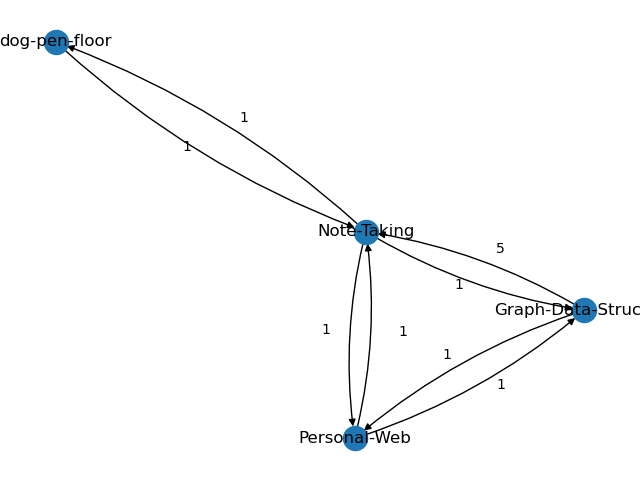
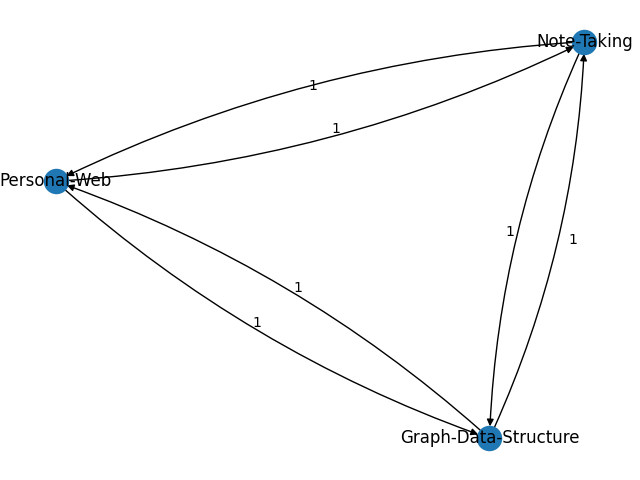
Added all necessary changes to include graph.png view

diff --git a/templates/index.html b/templates/index.html
@@ -46,7 +46,7 @@
       >
         <textarea
           hx-post="/process-markdown"
-          hx-trigger="input"
+          hx-trigger="input, click from:#SecondaryNoteLoader"
           hx-swap="innerHTML"
           hx-target="#view-mode"
           name="markdownText"
@@ -54,13 +54,26 @@
           placeholder="Write your markdown here...."
         ></textarea>
       </div>
-      <button 
-        hx-get="/viz/"
-        >
-        Visualize
-      </button>
+      <!-- <button hx-get="/viz/">Visualize</button> -->
       <!-- This is the area that the html will show up in -->
-      <div class="leading-loose text-sm p-12 col-span-5" id="view-mode"></div>
+      <div class="col-span-5">
+        <div class="flex justify-start align-center border-b-2">
+          <button
+            class="border-r-2 p-1 hover:bg-violet-300 hover:text-neutral-900"
+            id="SecondaryNoteLoader"
+          >
+            Note View
+          </button>
+          <button
+            class="border-r-2 p-1 hover:bg-violet-300 hover:text-neutral-900"
+            hx-get="/viz"
+            hx-target="#view-mode"
+          >
+            Graph View
+          </button>
+        </div>
+        <div class="leading-loose text-sm p-12" id="view-mode"></div>
+      </div>
     </div>
   </body>
 </html>

diff --git a/templates/snippets/textarea.html b/templates/snippets/textarea.html
@@ -1,6 +1,6 @@
 <textarea
   hx-post="/process-markdown"
-  hx-trigger="input"
+  hx-trigger="input, click from:#SecondaryNoteLoader"
   hx-swap="innerHTML"
   hx-target="#view-mode"
   hx-include="[name='noteID']"

diff --git a/templates/snippets/graph.html b/templates/snippets/graph.html
@@ -1,0 +1,7 @@
+<div class="flex h-full justify-center align-center">
+  <img
+    src="{{imgpath}}"
+    alt="This represents the graph of how all the notes are connected"
+    class="w-full"
+  />
+</div>

diff --git a/graph.py b/graph.py
@@ -1,8 +1,10 @@
 from typing import Optional
+import time
 import uuid
 import networkx as nx
 import matplotlib.pyplot as plt
 import math
+
 
 # The same as a node in a graph but called note because we are making a note app
 class Note:
@@ -80,10 +82,12 @@ class WeightedNoteGraph:
             string_value += f"{note} -----> {[str(N) + ', ' + str(self.graph[note][N]) for N in self.graph[note]]}\n"
 
         return string_value
-    
+
     def generate_visualisations(self):
         plt.clf()  # Clear the current matplotlib figure
-        G = nx.MultiDiGraph()  # Create a new directed multigraph each time the method is called
+        G = (
+            nx.MultiDiGraph()
+        )  # Create a new directed multigraph each time the method is called
 
         for note in self.graph:
             G.add_node(note)
@@ -91,20 +95,29 @@ class WeightedNoteGraph:
                 G.add_edge(note, connected_note, weight=weight)
 
         pos = nx.spring_layout(G)
-        nx.draw(G, pos, with_labels=True, connectionstyle='arc3, rad = 0.1')
+        nx.draw(G, pos, with_labels=True, connectionstyle="arc3, rad = 0.1")
 
         # Add edge labels manually
         for u, v, key, d in G.edges(keys=True, data=True):
             x = (pos[u][0] + pos[v][0]) / 2
             y = (pos[u][1] + pos[v][1]) / 2
             angle = math.atan2(pos[v][1] - pos[u][1], pos[v][0] - pos[u][0])
-            label_pos = [x + 0.1 * math.cos(angle + math.pi / 2), y + 0.1 * math.sin(angle + math.pi / 2)]
-            plt.text(label_pos[0], label_pos[1], d['weight'])
+            label_pos = [
+                x + 0.1 * math.cos(angle + math.pi / 2),
+                y + 0.1 * math.sin(angle + math.pi / 2),
+            ]
+            plt.text(label_pos[0], label_pos[1], d["weight"])
 
-        plt.savefig("./assets/graph.png")  # or "graph.jpg"
+        url = f"./assets/graph{str(int(time.time()))}.png"
+        plt.savefig(url)  # or "graph.jpg"
+        return url
 
 
 NOTEGRAPH = WeightedNoteGraph()
+NOTEGRAPH.addNote(
+    "Guide",
+    '## How to Use\nThis app allows you to explore linking notes horizontally instead of hierarchically, utilizing graph data structures to make this possible.\n\n<br/>\n### Getting Started\n\nTo begin, click on one of our pre-generated notes or create a new note using the provided button.\n\n<br/>\n### Linking Notes\nYou can link to other notes using the following syntax:\n\n1. **Existing Note**: Links to existing notes appear in purple on the right-hand side. Example: [[Note-Taking]]\n2. **Non-Existing Note**: Links to notes that do not yet exist appear in red. Example: [[new-example]]. This is useful for notes you plan to create in the future.\n### Interacting with Links\n- **Clickable Links**: The links on the right-hand side are clickable.\n- **Red Links**: Clicking on red links (notes not yet created) will automatically generate a new note for you. We recommend this method over creating notes manually, as it makes note-taking a more natural extension of your thinking process.\n\n<br/>\n### Graph View\n1. Access the graph view by clicking the "Graph View" button on the right-hand side.\n2. To return to the note view, click "Note View."',
+)
 NOTEGRAPH.addNote(
     "Note-Taking",
     '### Note-Taking\n\nUsing graph data structures for note-taking enhances the organization and retrieval of information. Traditional linear note-taking methods often lead to fragmented and hard-to-navigate information. In contrast, graph-based note-taking allows each note to act as a node, with relationships between notes forming edges. This structure supports linking related concepts, topics, and ideas dynamically, reflecting the way knowledge and thoughts are interconnected.\n\nFor instance, a note about "Photosynthesis" can be linked to related notes on "Chlorophyll," "Plant Biology," and "Energy Conversion," creating a comprehensive network of information. This interconnected approach can be further explored through the concept of a [[Personal-Web]] and benefits from the underlying structure of a [[Graph-Data-Structure]].',

diff --git a/main.py b/main.py
@@ -7,10 +7,12 @@ from fastapi.templating import Jinja2Templates
 import markdown
 from markdownExtension import CustomExtension
 from graph import NOTEGRAPH
+from fastapi.staticfiles import StaticFiles
 
 
 app = FastAPI()
 templates = Jinja2Templates("templates")
+app.mount("/assets", StaticFiles(directory="assets"), name="asset")
 
 
 def set_connected_nodes(markdown_text, src_note):
@@ -82,15 +84,13 @@ async def getNote(request: Request, noteID: str):
             },
         )
 
+
 @app.get("/viz/", response_class=HTMLResponse)
 async def getViz(request: Request):
-    print(NOTEGRAPH)
-    NOTEGRAPH.generate_visualisations()
-    return "success"
-    # return templates.TemplateResponse(
-    #     "snippets/viz.html",
-    #     {"request": request, "notes": NOTEGRAPH.generate_visualisations()},
-    # )
+    url = NOTEGRAPH.generate_visualisations()
+    return templates.TemplateResponse(
+        "snippets/graph.html", {"request": request, "imgpath": url}
+    )
 
 
 @app.post("/create-note/", response_class=HTMLResponse)
@@ -117,9 +117,6 @@ async def create_a_note(request: Request, TITLE: Annotated[str, Form()]):
         "wall",
         "floor",
     ]  # 20*20*20 = 8000 unique
-
-
-
 
     while True:
         name = f"{choice(word_list)}-{choice(word_list)}-{choice(word_list)}"
